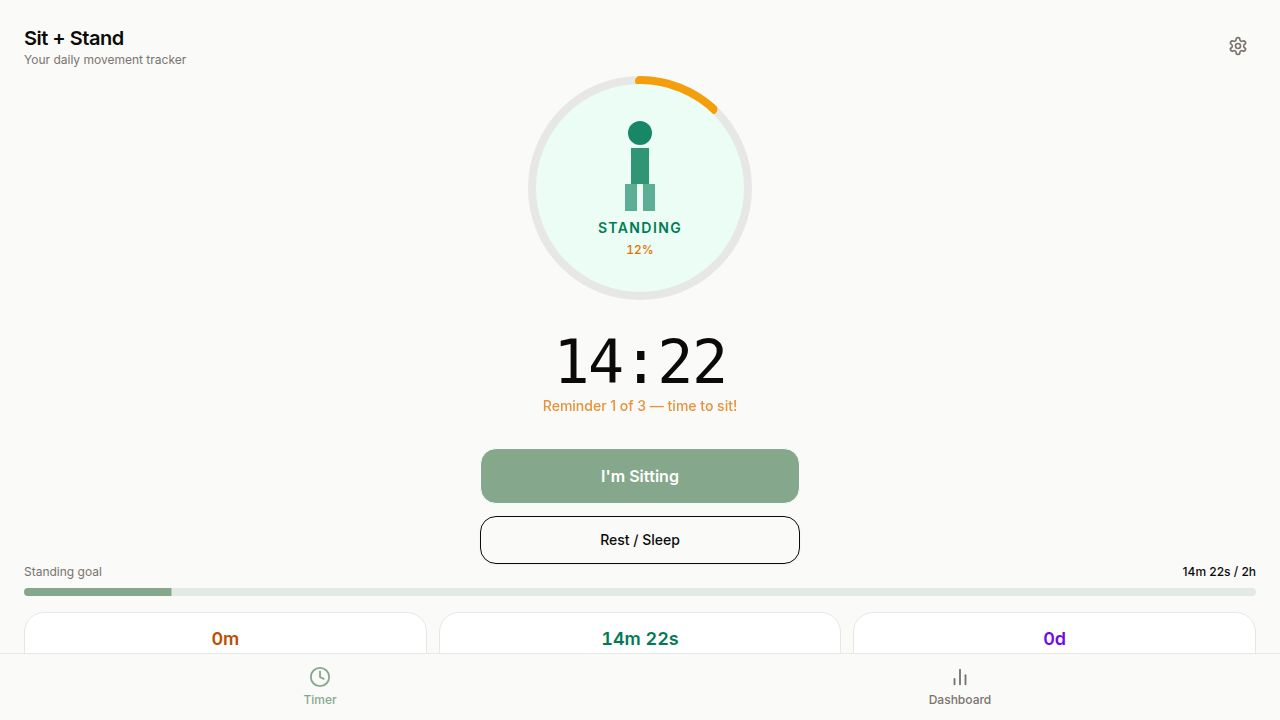
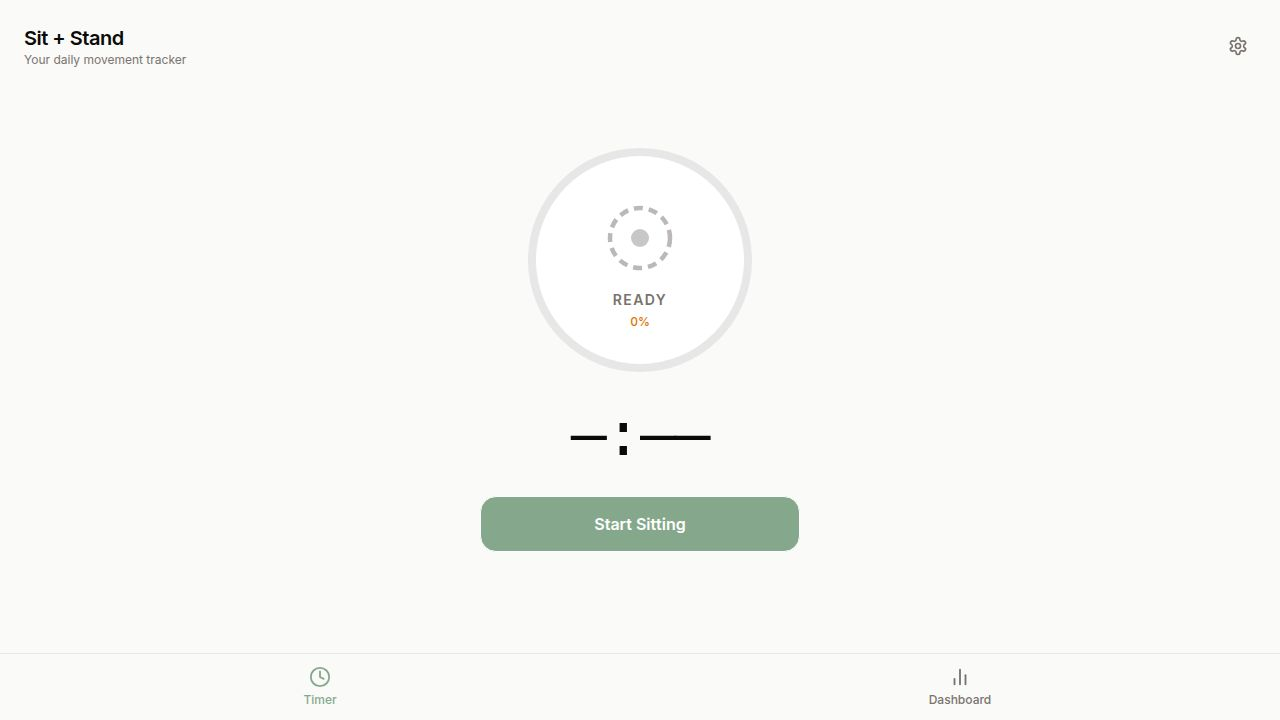
feat: hint that the trophy badge is tappable when it first appears
Task #32 - Adds a subtle wiggle animation to the trophy badge shortly
after it pops in, surfacing its tap-to-replay interactivity to users.

Implementation:
- Added `@user badge-hint-wiggle` to index.css: a rotating scale-up
  wiggle that plays once (7 keyframes, 0.7s) with exaggerated start
  tapering to rest
- Added `BADGE_HINT_KEY` localStorage key ("sit-stand-badge-hint") plus
  `getBadgeHintDate`/`saveBadgeHintDate` helpers to track the last date
  the hint was shown (separate from the celebration key)
- `TrophyBadge` updated: accepts `showHint` + `onHintShown` props; builds
  a CSS multi-animation string sequencing `badge-hint-wiggle` 0.8s after
  `badge-pop-in` finishes; fires `onHintShown` via `onAnimationEnd`
  (filtered by animationName)
- `GoalProgressRing` updated to thread `showBadgeHint` / `onBadgeHintShown`
  props through to TrophyBadge

Interrupt-safety (hardened per code review):
- `hintScheduledRef` (useRef) is set true the moment the hint is scheduled,
  so if the badge unmounts before animationEnd the wiggle won't replay on
  the next badge mount within the same session
- `saveBadgeHintDate` is called immediately in a useEffect when the hint
  is first scheduled — not on animationEnd — ensuring a page reload mid-
  animation also won't replay the hint
- State (`badgeHintShown`) is set to true on `animationEnd` via
  `handleBadgeHintShown`, completing the deduplication chain
- Midnight reset clears both `badgeHintShown` state and `hintScheduledRef`
[…]

diff --git a/artifacts/sit-stand-timer/src/pages/TimerPage.tsx b/artifacts/sit-stand-timer/src/pages/TimerPage.tsx
@@ -8,6 +8,7 @@ import { useFitbitDrift } from "@/hooks/useFitbitDrift";
 import { NudgeModal } from "@/components/NudgeModal";
 
 const CELEBRATION_KEY = "sit-stand-goal-celebrated";
+const BADGE_HINT_KEY = "sit-stand-badge-hint";
 
 function getCelebratedDate(): string {
   try { return localStorage.getItem(CELEBRATION_KEY) ?? ""; } catch { return ""; }
@@ -15,6 +16,14 @@ function getCelebratedDate(): string {
 
 function saveCelebratedDate(date: string): void {
   try { localStorage.setItem(CELEBRATION_KEY, date); } catch { /* ignore */ }
+}
+
+function getBadgeHintDate(): string {
+  try { return localStorage.getItem(BADGE_HINT_KEY) ?? ""; } catch { return ""; }
+}
+
+function saveBadgeHintDate(date: string): void {
+  try { localStorage.setItem(BADGE_HINT_KEY, date); } catch { /* ignore */ }
 }
 
 function todayStr(): string {
@@ -161,7 +170,19 @@ const STROKE_WIDTH = 10;
 const RADIUS = (RING_SIZE - STROKE_WIDTH) / 2;
 const CIRCUMFERENCE = 2 * Math.PI * RADIUS;
 
-function TrophyBadge({ delayed, onReplay }: { delayed: boolean; onReplay: () => void }) {
+function TrophyBadge({ delayed, onReplay, showHint, onHintShown }: { delayed: boolean; onReplay: () => void; showHint: boolean; onHintShown: () => void }) {
+  const popInDelay = delayed ? 2.1 : 0;
+  const wiggleDelay = popInDelay + 0.8;
+  const animation = showHint
+    ? `badge-pop-in 0.5s ${popInDelay}s cubic-bezier(0.34,1.56,0.64,1) both, badge-hint-wiggle 0.7s ${wiggleDelay}s ease-in-out 1 both`
+    : `badge-pop-in 0.5s ${popInDelay}s cubic-bezier(0.34,1.56,0.64,1) both`;
+
+  const handleAnimationEnd = (e: React.AnimationEvent<HTMLButtonElement>) => {
+    if (e.animationName === "badge-hint-wiggle") {
+      onHintShown();
+    }
+  };
+
   return (
     <button
       type="button"
@@ -169,8 +190,9 @@ function TrophyBadge({ delayed, onReplay }: { delayed: boolean; onReplay: () => 
       className="absolute left-1/2 flex items-center justify-center w-7 h-7 rounded-full bg-emerald-500 dark:bg-emerald-600 shadow-md ring-2 ring-background hover:bg-emerald-400 dark:hover:bg-emerald-500 active:scale-90 transition-transform cursor-pointer"
       style={{
         top: "-10px",
-        animation: `badge-pop-in 0.5s ${delayed ? "2.1s" : "0s"} cubic-bezier(0.34,1.56,0.64,1) both`,
+        animation,
       }}
+      onAnimationEnd={handleAnimationEnd}
       title="Tap to replay celebration"
       aria-label="Replay goal celebration"
     >
@@ -186,7 +208,7 @@ function TrophyBadge({ delayed, onReplay }: { delayed: boolean; onReplay: () => 
   );
 }
 
-function GoalProgressRing({ mode, goalPercent, celebrating, goalAchieved, badgeDelayed, onReplayCelebration }: { mode: TimerMode; goalPercent: number; celebrating: boolean; goalAchieved: boolean; badgeDelayed: boolean; onReplayCelebration: () => void }) {
+function GoalProgressRing({ mode, goalPercent, celebrating, goalAchieved, badgeDelayed, showBadgeHint, onBadgeHintShown, onReplayCelebration }: { mode: TimerMode; goalPercent: number; celebrating: boolean; goalAchieved: boolean; badgeDelayed: boolean; showBadgeHint: boolean; onBadgeHintShown: () => void; onReplayCelebration: () => void }) {
   const clampedPercent = Math.max(0, Math.min(goalPercent, 100));
   const dashOffset = CIRCUMFERENCE * (1 - clampedPercent / 100);
   const goalMet = goalPercent >= 100;
@@ -206,7 +228,7 @@ function GoalProgressRing({ mode, goalPercent, celebrating, goalAchieved, badgeD
 
   return (
     <div className="relative w-56 h-56">
-      {goalAchieved && !celebrating && <TrophyBadge delayed={badgeDelayed} onReplay={onReplayCelebration} />}
+      {goalAchieved && !celebrating && <TrophyBadge delayed={badgeDelayed} onReplay={onReplayCelebration} showHint={showBadgeHint} onHintShown={onBadgeHintShown} />}
       {celebrating && (
         <>
           <span
@@ -363,6 +385,34 @@ export default function TimerPage() {
   // true = badge was just earned this session (animate in after celebration delay)
   // false = badge loaded from localStorage (animate in immediately on mount)
   const freshAchievementRef = useRef(false);
+  // Track whether the hint wiggle has already been shown today (state) or
+  // at least scheduled this session (ref). State initialises from localStorage
+  // so a page reload after the hint played still suppresses it.
+  const [badgeHintShown, setBadgeHintShown] = useState(() => getBadgeHintDate() === todayStr());
+  // Ref acts as an in-session guard: set true when the hint is first scheduled
+  // so the wiggle never replays even if the badge unmounts before animationEnd.
+  const hintScheduledRef = useRef(getBadgeHintDate() === todayStr());
+
+  // showBadgeHint stays true for the entire first mount of TrophyBadge so the
+  // CSS animation can play; it flips false after animationEnd (state) or on the
+  // next badge mount within the same session (ref).
+  const showBadgeHint = goalAchieved && !badgeHintShown && !hintScheduledRef.current;
+
+  // Persist the hint date immediately when scheduled — before the animation
+  // completes — so a reload mid-animation won't replay the wiggle.
+  useEffect(() => {
+    if (showBadgeHint) {
+      saveBadgeHintDate(todayStr());
+      hintScheduledRef.current = true;
+      // State intentionally NOT updated here so TrophyBadge keeps showHint=true
+      // for its current mount and the CSS animation can run to completion.
+    }
+  // eslint-disable-next-line react-hooks/exhaustive-deps
+  }, [showBadgeHint]);
+
+  function handleBadgeHintShown() {
+    setBadgeHintShown(true);
+  }
   const celebrationTimerRef = useRef<ReturnType<typeof setTimeout> | null>(null);
   const prevGoalPercentRef = useRef<number | null>(null);
 
@@ -419,6 +469,8 @@ export default function TimerPage() {
         setCelebrating(false);
         setGoalAchieved(false);
         freshAchievementRef.current = false;
+        setBadgeHintShown(false);
+        hintScheduledRef.current = false;
         if (celebrationTimerRef.current) {
           clearTimeout(celebrationTimerRef.current);
           celebrationTimerRef.current = null;
@@ -547,6 +599,8 @@ export default function TimerPage() {
           celebrating={celebrating}
           goalAchieved={goalAchieved}
           badgeDelayed={freshAchievementRef.current}
+          showBadgeHint={showBadgeHint}
+          onBadgeHintShown={handleBadgeHintShown}
           onReplayCelebration={replayCelebration}
         />
 

diff --git a/artifacts/sit-stand-timer/src/index.css b/artifacts/sit-stand-timer/src/index.css
@@ -181,3 +181,13 @@
   80%  { transform: translateX(-50%) scale(0.9); }
   100% { opacity: 1; transform: translateX(-50%) scale(1); }
 }
+
+@keyframes badge-hint-wiggle {
+  0%   { transform: translateX(-50%) rotate(0deg) scale(1); }
+  15%  { transform: translateX(-50%) rotate(-18deg) scale(1.15); }
+  35%  { transform: translateX(-50%) rotate(14deg) scale(1.12); }
+  50%  { transform: translateX(-50%) rotate(-10deg) scale(1.08); }
+  65%  { transform: translateX(-50%) rotate(7deg) scale(1.04); }
+  80%  { transform: translateX(-50%) rotate(-4deg) scale(1.01); }
+  100% { transform: translateX(-50%) rotate(0deg) scale(1); }
+}